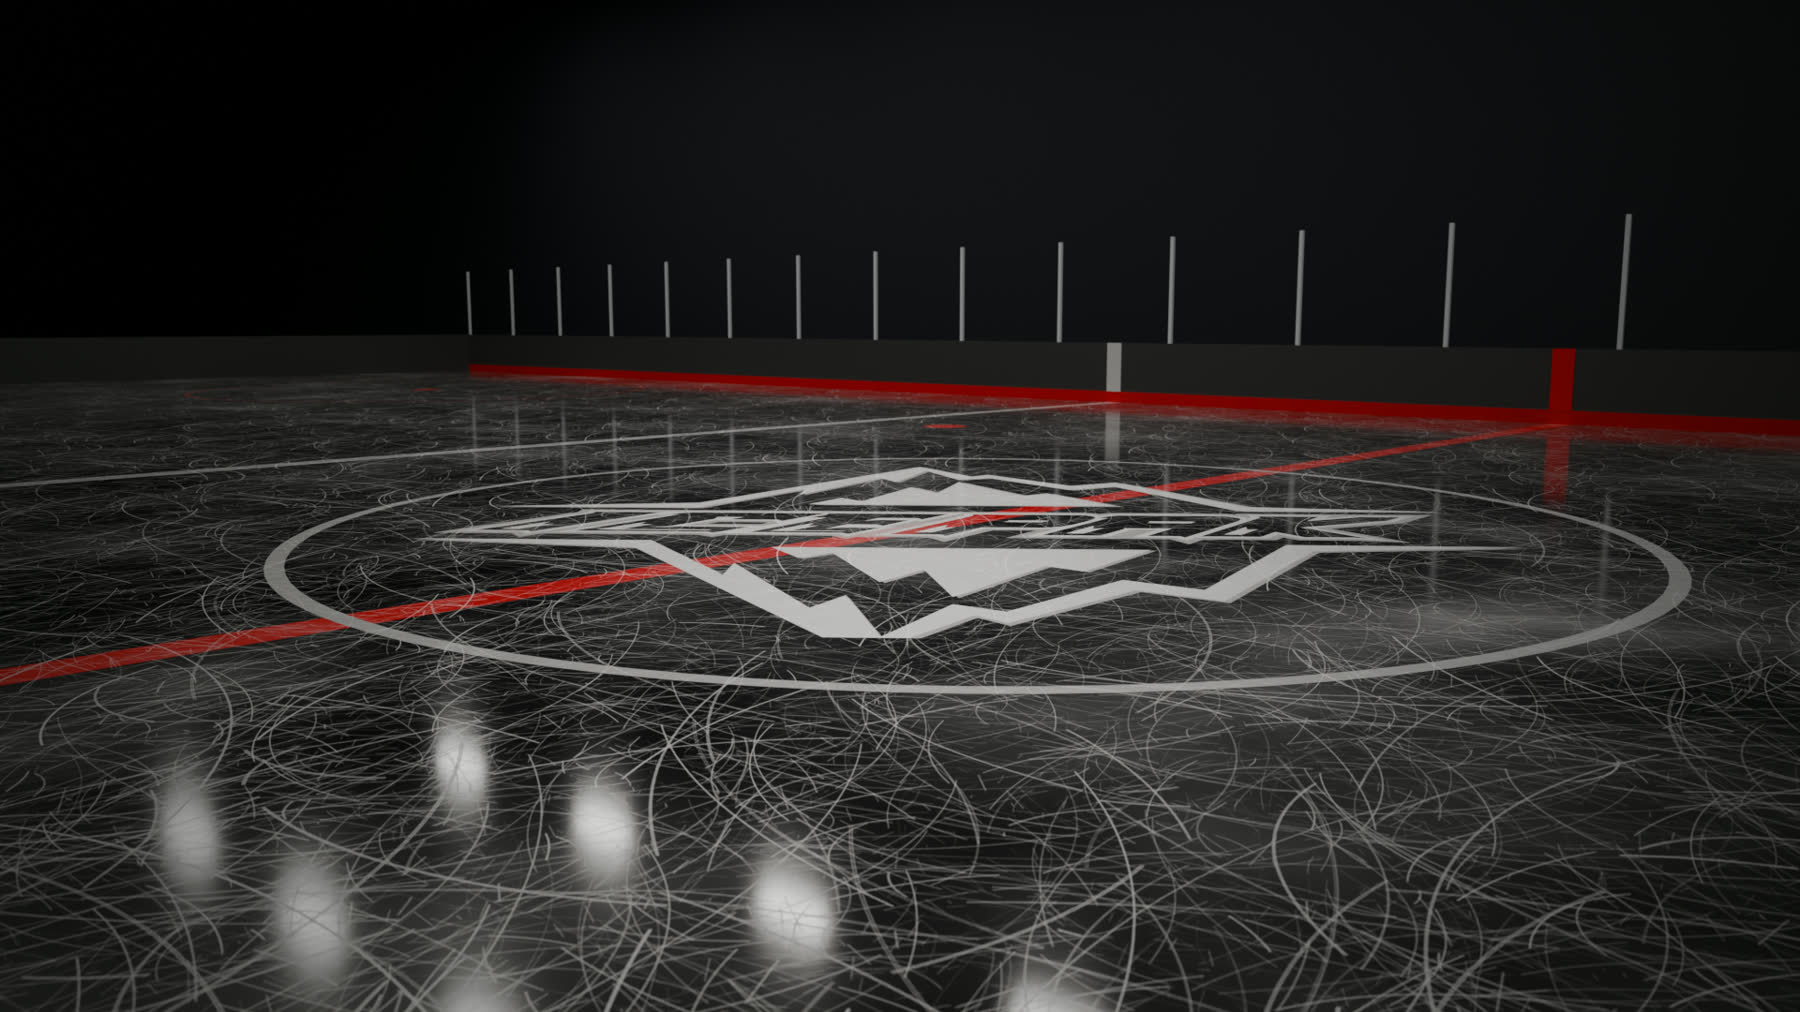
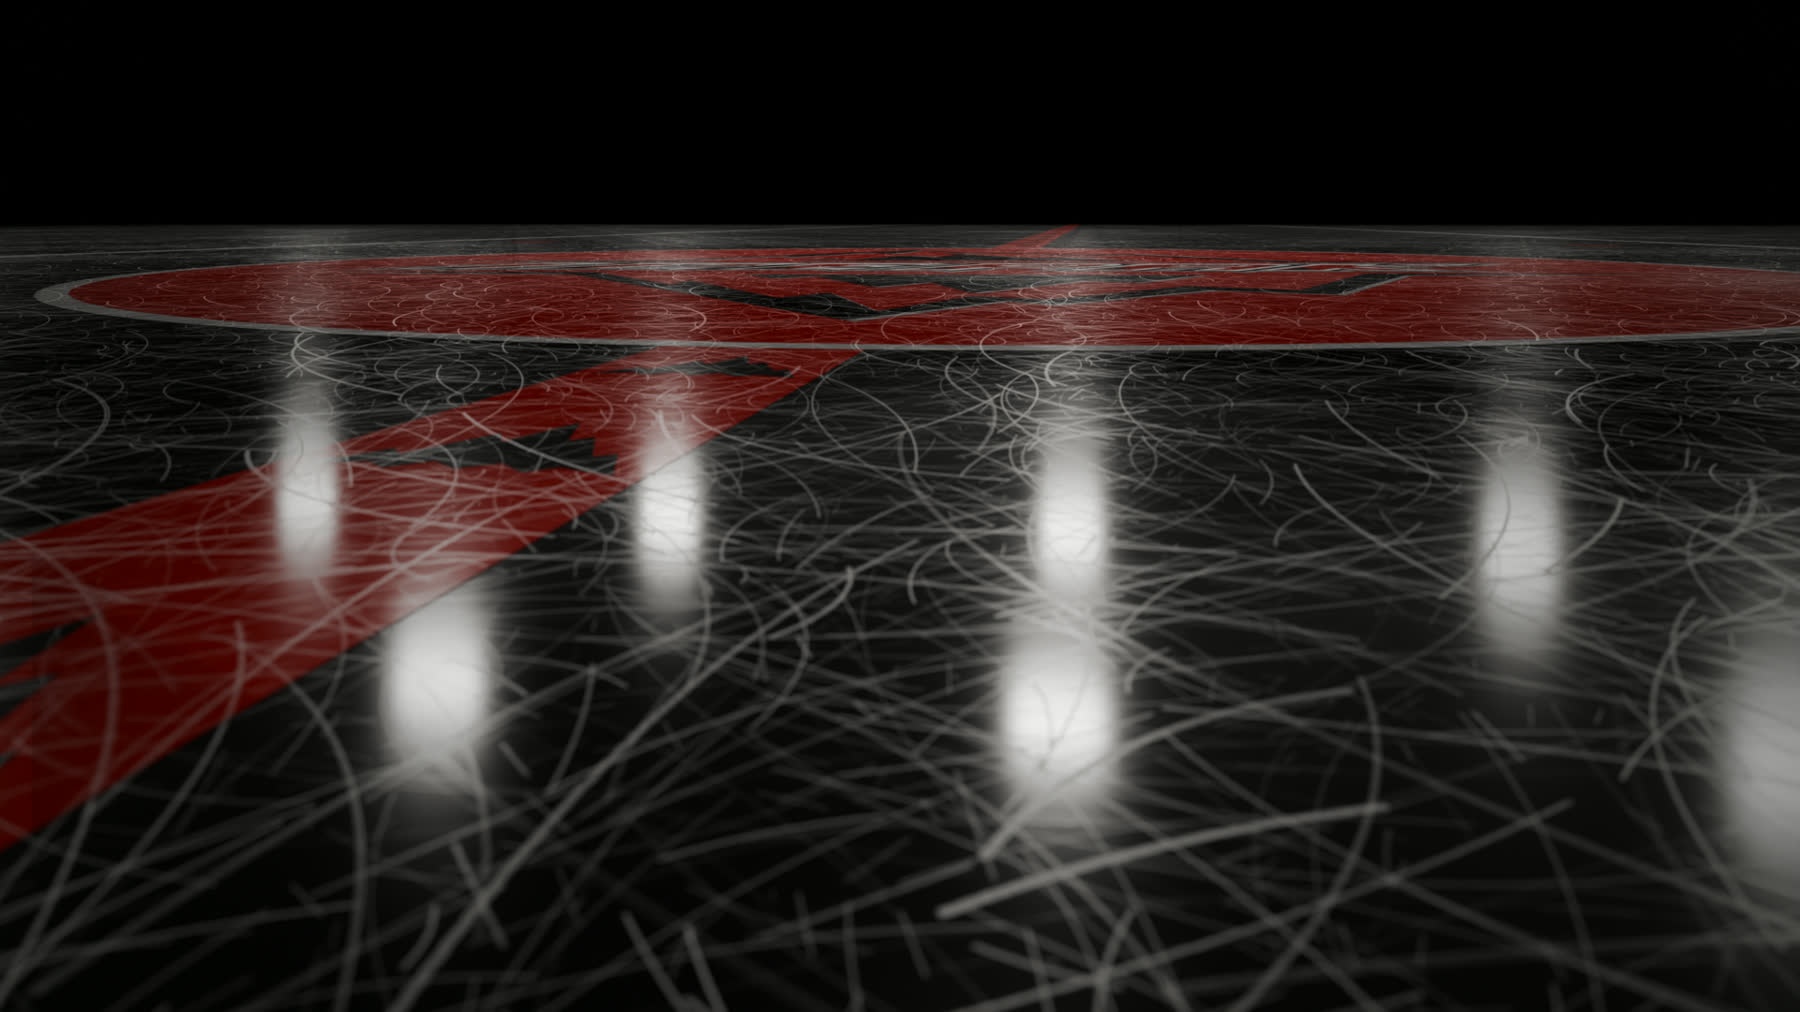
Render the rink from ice level with mountain cutouts on the centre line
The camera is now 30 cm above the ice, and the images show no
boards. The red centre line is wide and has the peaks of the crest
as cutouts. The Third image has the real black crest on a red
centre circle. The background is less strong in the pages.

Claude-Session: https://claude.ai/code/session_01LUkgWkMsUGzKFSRMNAicyx

diff --git a/docs/design/mock.css b/docs/design/mock.css
@@ -21,7 +21,7 @@
   --head: #0a1427;
   --band: linear-gradient(180deg, rgb(23 41 90 / 0.46), rgb(13 25 48 / 0.84));
   /* The veil over the rink photo: light at the top of the window, heavy at the bottom. */
-  --veil: linear-gradient(180deg, rgb(13 25 48 / 0.34), rgb(13 25 48 / 0.8) 75%);
+  --veil: linear-gradient(180deg, rgb(13 25 48 / 0.55), rgb(13 25 48 / 0.88) 75%);
   --shade: rgb(0 0 0 / 0.35);
   --display: "Barlow Condensed", "Arial Narrow", "Helvetica Neue", Arial, sans-serif;
   --body: Inter, system-ui, -apple-system, "Segoe UI", sans-serif;
@@ -43,7 +43,7 @@
   --accent: #2a4a8f;
   --head: #ffffff;
   --band: linear-gradient(180deg, rgb(29 49 95 / 0.66), rgb(23 40 79 / 0.92));
-  --veil: linear-gradient(180deg, rgb(255 255 255 / 0.3), rgb(255 255 255 / 0.8) 75%);
+  --veil: linear-gradient(180deg, rgb(255 255 255 / 0.5), rgb(255 255 255 / 0.88) 75%);
   --shade: rgb(29 49 95 / 0.12);
 }
 
@@ -61,7 +61,7 @@
   --accent: #ffffff;
   --head: #c0211c;
   --band: linear-gradient(180deg, rgb(192 33 28 / 0.72), rgb(150 22 18 / 0.93));
-  --veil: linear-gradient(180deg, rgb(10 10 10 / 0.42), rgb(10 10 10 / 0.86) 75%);
+  --veil: linear-gradient(180deg, rgb(10 10 10 / 0.58), rgb(10 10 10 / 0.9) 75%);
   --shade: rgb(0 0 0 / 0.5);
 }
 
@@ -112,7 +112,7 @@ body::before {
   inset: 0;
   z-index: 0;
   pointer-events: none;
-  background: var(--veil), url(img/bg-home.jpg) center 78% / cover no-repeat;
+  background: var(--veil), url(img/bg-home.jpg) center 60% / cover no-repeat;
 }
 
 :root[data-theme="away"] body::before {

diff --git a/docs/design/rink-background.py b/docs/design/rink-background.py
@@ -7,12 +7,12 @@ variant, out = sys.argv[sys.argv.index("--") + 1], sys.argv[sys.argv.index("--")
 samples = int(sys.argv[sys.argv.index("--") + 3]) if len(sys.argv) > sys.argv.index("--") + 3 else 160
 HERE = os.path.dirname(os.path.abspath(__file__))
 V = {
-  "home":  dict(ice=(0.035, 0.055, 0.10), blue=(0.02, 0.10, 0.50), red=(0.55, 0.02, 0.03), scratch=(0.78, 0.87, 1.0), light=75, tint=(0.72, 0.85, 1.0), world=(0.002, 0.004, 0.010),
-                cam=(-6.2, -7.6, 1.45), aim=(0.9, 0.3, 0.0), lens=27, fstop=2.4, crest="crest-navy.png", white=False, rot=-0.69, kw=0.62),
-  "away":  dict(ice=(0.30, 0.36, 0.45), blue=(0.02, 0.12, 0.60), red=(0.70, 0.03, 0.04), scratch=(1.0, 1.0, 1.0), light=150, tint=(1.0, 1.0, 1.0), world=(0.03, 0.035, 0.05),
-                cam=(0.0, -8.6, 0.95), aim=(0.0, 4.0, 0.1), lens=21, fstop=4.0, crest="crest-navy.png", white=False, rot=0.0, kw=0.62),
-  "third": dict(ice=(0.006, 0.006, 0.007), blue=(0.45, 0.45, 0.45), red=(0.60, 0.015, 0.015), scratch=(0.9, 0.9, 0.9), light=80, tint=(1.0, 0.96, 0.93), world=(0.001, 0.001, 0.001),
-                cam=(6.4, -7.4, 1.45), aim=(-0.9, 0.3, 0.0), lens=27, fstop=2.4, crest="crest-third.png", white=True, rot=0.71, kw=0.62),
+  "home":  dict(ice=(0.035, 0.055, 0.10), blue=(0.02, 0.10, 0.50), red=(0.55, 0.02, 0.03), scratch=(0.78, 0.87, 1.0), light=260, tint=(0.72, 0.85, 1.0), world=(0.002, 0.004, 0.010),
+                cam=(-0.75, -7.3, 0.30), aim=(0.9, 3.0, 0.30), lens=24, fstop=4.0, crest="crest-navy.png", rot=-0.12, kw=0.62, disc=None),
+  "away":  dict(ice=(0.30, 0.36, 0.45), blue=(0.02, 0.12, 0.60), red=(0.70, 0.03, 0.04), scratch=(1.0, 1.0, 1.0), light=420, tint=(1.0, 1.0, 1.0), world=(0.55, 0.6, 0.68),
+                cam=(0.0, -7.4, 0.30), aim=(0.0, 3.0, 0.30), lens=22, fstop=4.0, crest="crest-navy.png", rot=0.0, kw=0.62, disc=None),
+  "third": dict(ice=(0.006, 0.006, 0.007), blue=(0.55, 0.55, 0.55), red=(0.50, 0.012, 0.010), scratch=(0.9, 0.9, 0.9), light=280, tint=(1.0, 0.96, 0.93), world=(0.001, 0.001, 0.001),
+                cam=(0.75, -7.3, 0.30), aim=(-0.9, 3.0, 0.30), lens=24, fstop=4.0, crest="crest-third.png", rot=0.12, kw=0.62, disc=(0.50, 0.012, 0.010)),
 }[variant]
 bpy.ops.wm.read_factory_settings(use_empty=True)
 sc = bpy.context.scene
@@ -53,7 +53,7 @@ def material(name, color=None, image=None, white=False, rough=0.05, kw=0.5):
         tx = nd.new("ShaderNodeTexImage"); tx.image = SCR; lk.new(geo.outputs["Position"], mp.inputs["Vector"]); lk.new(mp.outputs["Vector"], tx.inputs["Vector"])
         return tx.outputs["Color"]
     add = nd.new("ShaderNodeMath"); add.operation = "ADD"; add.use_clamp = True
-    lk.new(layer(1 / 4.2, 0.0), add.inputs[0]); lk.new(layer(1 / 1.9, 1.1), add.inputs[1])
+    lk.new(layer(1 / 2.4, 0.0), add.inputs[0]); lk.new(layer(1 / 0.95, 1.1), add.inputs[1])
     noise = nd.new("ShaderNodeTexNoise"); noise.inputs["Scale"].default_value = 0.35; noise.inputs["Detail"].default_value = 3
     lk.new(geo.outputs["Position"], noise.inputs["Vector"])
     mix = nd.new("ShaderNodeMix"); mix.data_type = "RGBA"; mix.inputs[7].default_value = (*V["scratch"], 1)
@@ -98,51 +98,46 @@ def box(name, x0, y0, z0, x1, y1, z1, mat):
     vs = [(x, y, z) for x in (x0, x1) for y in (y0, y1) for z in (z0, z1)]
     return mesh(name, vs, [(0, 1, 3, 2), (4, 6, 7, 5), (0, 4, 5, 1), (2, 3, 7, 6), (0, 2, 6, 4), (1, 5, 7, 3)], mat)
 
-ICE = material("ice", V["ice"], rough=0.04, kw=V["kw"])
+ICE = material("ice", V["ice"], rough=0.07, kw=V["kw"])
 BLUE = material("blue", V["blue"], rough=0.06, kw=0.55); RED = material("red", V["red"], rough=0.06, kw=0.55)
-rect("ice", -L / 2, -W / 2, L / 2, W / 2, 0, ICE)
-rect("centre", -0.15, -W / 2, 0.15, W / 2, 0.001, RED)
-for x in (-7.62, 7.62): rect("blueline", x - 0.15, -W / 2, x + 0.15, W / 2, 0.001, BLUE)
-for x in (-27.1, 27.1): rect("goal", x - 0.03, -W / 2, x + 0.03, W / 2, 0.001, RED)
+F = 220.0  # the ice has no edge in the frame
+rect("ice", -F, -F, F, F, 0, ICE)
+CL = 0.24  # half of the width of the centre line
+rect("centre", -CL, -F, CL, F, 0.001, RED)
+for x in (-7.62, 7.62): rect("blueline", x - 0.15, -F, x + 0.15, F, 0.001, BLUE)
 ring("circle", 0, 0, 4.57, 0.11, 0.0015, BLUE)
-for x in (-21.0, 21.0):
-    for y in (-6.7, 6.7): ring("fo", x, y, 4.57, 0.05, 0.001, RED); disc("fod", x, y, 0.3, 0.0012, RED)
+if V["disc"]: disc("field", 0, 0, 4.52, 0.0012, material("field", V["disc"], rough=0.06, kw=0.5), n=128)
 for x in (-6.1, 6.1):
     for y in (-6.7, 6.7): disc("nd", x, y, 0.3, 0.0012, RED)
+# mountain cutouts: the peaks of the crest as negative space on the centre line, in the ice colour
+PEAK = [(-0.5, 0.0), (-0.36, 0.34), (-0.29, 0.24), (-0.15, 0.70), (-0.07, 0.52), (0.03, 1.0), (0.14, 0.58), (0.20, 0.68), (0.33, 0.30), (0.39, 0.37), (0.5, 0.0),
+        (0.30, 0.10), (0.22, 0.0), (0.10, 0.14), (0.0, 0.02), (-0.12, 0.14), (-0.22, 0.0), (-0.32, 0.10)]
+pw, ph, step = CL * 2 * 0.84, 0.34, 0.86
+y = -F / 4
+while y < F / 4:
+    if abs(y + ph / 2) > 4.7:  # not inside the centre circle
+        sgn = 1 if y < 0 else -1  # each peak points to centre ice
+        mesh("peak", [(px * pw, y + (py if sgn > 0 else 1 - py) * ph, 0.0016) for px, py in PEAK], [tuple(range(len(PEAK)))[::sgn]], ICE)
+    y += step
 # crest at centre ice, 7.4 m wide, turned to the camera side
-cw = 7.4; ch = cw * (5256 / 5000 if not V["white"] else 1.0)
-CR = material("crest", image=V["crest"], white=V["white"], rough=0.06, kw=0.5)
+cw = 7.4; ch = cw * (5256 / 5000 if variant != "third" else 2524 / 2400)
+CR = material("crest", image=V["crest"], rough=0.06, kw=0.5)
 c = mesh("crest", [(-cw / 2, -ch / 2, 0.002), (cw / 2, -ch / 2, 0.002), (cw / 2, ch / 2, 0.002), (-cw / 2, ch / 2, 0.002)], [(0, 1, 2, 3)], CR, uvs=[(0, 0), (1, 0), (1, 1), (0, 1)])
 c.rotation_euler[2] = V["rot"]
-
-# boards, kick plate, and glass posts
-def plain(name, col, rough=0.5, emit=0.0):
-    m = bpy.data.materials.new(name); m.use_nodes = True; b = m.node_tree.nodes["Principled BSDF"]
-    b.inputs["Base Color"].default_value = (*col, 1); b.inputs["Roughness"].default_value = rough; return m
-BW = plain("boards", (0.75, 0.77, 0.8) if variant != "third" else (0.05, 0.05, 0.05), 0.35); KP = plain("kick", (0.8, 0.55, 0.05) if variant != "third" else (0.5, 0.02, 0.02), 0.4)
-PO = plain("post", (0.5, 0.52, 0.55), 0.3); DK = plain("dark", (0.01, 0.012, 0.02), 0.9)
-for (x0, y0, x1, y1) in [(-L / 2, W / 2, L / 2, W / 2 + 0.12), (-L / 2, -W / 2 - 0.12, L / 2, -W / 2), (-L / 2 - 0.12, -W / 2, -L / 2, W / 2), (L / 2, -W / 2, L / 2 + 0.12, W / 2)]:
-    box("board", x0, y0, 0, x1, y1, 1.07, BW)
-box("kick", -L / 2, W / 2 - 0.01, 0, L / 2, W / 2, 0.2, KP); box("kick", -L / 2, -W / 2, 0, L / 2, -W / 2 + 0.01, 0.2, KP)
-for i in range(int(L / 2.4) + 1):
-    x = -L / 2 + i * 2.4; box("post", x - 0.03, W / 2 + 0.03, 1.07, x + 0.03, W / 2 + 0.09, 2.9, PO)
-box("redmark", -0.15, W / 2 - 0.012, 0.2, 0.15, W / 2, 1.07, plain("rm", V["red"], 0.4))
-for x in (-7.62, 7.62): box("bluemark", x - 0.15, W / 2 - 0.012, 0.2, x + 0.15, W / 2, 1.07, plain("bm", V["blue"], 0.4))
-box("stands", -L, W / 2 + 3, 0, L, W / 2 + 3.2, 14, DK); box("stands2", -L, -W / 2 - 3.2, 0, L, -W / 2 - 3, 14, DK)
 
 # lights: rows of bright panels over the ice
 em = bpy.data.materials.new("lamp"); em.use_nodes = True; nt = em.node_tree; nt.nodes.clear()
 e = nt.nodes.new("ShaderNodeEmission"); e.inputs["Color"].default_value = (*V["tint"], 1); e.inputs["Strength"].default_value = V["light"]
 o = nt.nodes.new("ShaderNodeOutputMaterial"); nt.links.new(e.outputs[0], o.inputs[0])
-for ix in range(-4, 5):
-    for iy in (-1.5, -0.5, 0.5, 1.5):
-        x, y = ix * 7.0, iy * 7.2
+for ix in range(-2, 3):
+    for iy in (0.4, 2.2, 4.0):
+        x, y = ix * 15.0, iy * 9.0
         mesh("lamp", [(x - 0.9, y - 0.25, 11), (x + 0.9, y - 0.25, 11), (x + 0.9, y + 0.25, 11), (x - 0.9, y + 0.25, 11)], [(3, 2, 1, 0)], em)
 w = bpy.data.worlds.new("w"); w.use_nodes = True; w.node_tree.nodes["Background"].inputs[0].default_value = (*V["world"], 1); sc.world = w
 
 cam = bpy.data.cameras.new("cam"); co = bpy.data.objects.new("cam", cam); sc.collection.objects.link(co); sc.camera = co
 co.location = V["cam"]; d = Vector(V["aim"]) - Vector(V["cam"]); co.rotation_euler = d.to_track_quat("-Z", "Y").to_euler()
-cam.lens = V["lens"]; cam.dof.use_dof = True; cam.dof.focus_distance = (Vector((0, 0, 0)) - Vector(V["cam"])).length * 0.8; cam.dof.aperture_fstop = V["fstop"]; cam.clip_end = 300
+cam.lens = V["lens"]; cam.dof.use_dof = True; cam.dof.focus_distance = (Vector((0, 0, 0)) - Vector(V["cam"])).length * 0.9; cam.dof.aperture_fstop = V["fstop"]; cam.clip_end = 400; cam.shift_y = -0.16
 
 sc.render.engine = "CYCLES"; sc.cycles.samples = samples; sc.cycles.use_denoising = True
 try:

diff --git a/docs/design/visual-direction.md b/docs/design/visual-direction.md
@@ -55,7 +55,7 @@ Troy asked for these changes:
 - **Video links and images:** the `nightowls_11082026` and `bluedevils_10252026` game folders on the NAS.
 - **Roster:** `backups/seed-player-bank.sql`, which comes from the Fee Sheet.
 - **Shop products:** the product names in the orders of the Old Site, and two product photos from the NAS.
-- **Rink images:** `rink-background.py` in this folder makes them with Blender 5.2. The crest in the Home and Away images is `icepak_logo2.png` from the NAS. The crest in the Third image is `img/crest-third.svg` in white. The script needs these two crest files beside it.
+- **Rink images:** `rink-background.py` in this folder makes them with Blender 5.2. The crest in the Home and Away images is `icepak_logo2.png` from the NAS. The crest in the Third image is `img/crest-third.svg`. The script needs these two crest files beside it.
 - **Opponent logos:** `Ext. Images/Ice Pak/Logos/` on the NAS, at 112 px. Buzz Light Beer, Dragon Juice, and the 20 Games with an unknown opponent have no logo.
 - **Home and away:** `game_teams` in the HHG database has the side of Ice Pak for 6 Games. The Old Site has no home or away data.
 - The mockups have no emails, no phone numbers, and no Balances.
@@ -122,7 +122,7 @@ Contrast numbers are WCAG contrast ratios. Text needs 4.5. A mark that carries m
 |---|---|---|---|---|
 | `--band` | navy gradient, 46% to 84% | navy gradient, 66% to 92% | red gradient, 72% to 93% | **Change.** `site.css` has a transparent band in Home and Away. A band in each Theme gives each page a clear top. In Away, the band is the navy of the jersey trim, with white text. |
 | `--head` | `#0a1427` | `#ffffff` | `#c0211c` | **Add.** The header background. In Third the header and the band are one red block, as in `site.css` now. |
-| `--veil` | navy, 34% to 80% | white, 30% to 80% | black, 42% to 86% | **Add.** The gradient over the rink photo. |
+| `--veil` | navy, 55% to 88% | white, 50% to 88% | black, 58% to 90% | **Add.** The gradient over the rink photo. |
 | `--shade` | black 35% | navy 12% | black 50% | **Add.** The shadow colour of a card. |
 | `--display`, `--body` | | | | **Add.** The two font lists. |
 | `--opp`, `--opp-2` | | | | **Add.** The two colours of an opponent. Default `var(--frost)` and `var(--rule)`. |
@@ -141,12 +141,14 @@ Rules that go with the tokens:
 
 ### Rink background
 
-- `body::before` shows one rink image, fixed behind the page: `img/bg-home.jpg` (178 kB), `img/bg-away.jpg` (97 kB), and `img/bg-third.jpg` (196 kB). Each one is 1800 px wide.
-- **Home:** dark blue ice, the navy crest, and a low camera at an angle.
-- **Away:** light ice, the navy crest, and a camera on the red line.
-- **Third:** black ice, a white crest, white lines in place of blue lines, and a red centre line.
-- **Each image:** skate marks, the centre circle, the lines, the boards, and the reflections of the arena lights.
-- **Veil:** a gradient of the ground colour is over the image. It is light at the top of the window and heavy at the bottom. The band has a kit-colour gradient that lets the image show.
+- `body::before` shows one rink image, fixed behind the page: `img/bg-home.jpg` (110 kB), `img/bg-away.jpg` (82 kB), and `img/bg-third.jpg` (121 kB). Each one is 1800 px wide.
+- **Camera:** 30 cm above the ice, on the centre line. The images show no boards and no arena.
+- **Centre line:** the red line is wide, and it has the peaks of the crest as cutouts in the ice colour.
+- **Home:** dark blue ice and the navy crest.
+- **Away:** light ice and the navy crest.
+- **Third:** black ice and a red centre circle with the real black crest on it. The real crest needs red behind it.
+- **Each image:** skate marks and the reflections of the arena lights.
+- **Veil:** a gradient of the ground colour is over the image: 50% to 58% at the top of the window and 88% to 90% at the bottom.
 - **Text:** most text is on a card with a solid fill. The section titles and a few lines of small text are on the veil.
 
 ### Page frame
@@ -297,7 +299,7 @@ I did this review myself, as a UX designer would. The first four items are in th
 14. **Recap images.** A Recap thumbnail has the red kit graphics of HHG. It looks the same in the Home and Away Themes. Is that acceptable?
 15. **Opponents with no logo.** Buzz Light Beer and Dragon Juice have no logo file. Do you have these logos?
 16. **Photos.** A Player has initials in place of a photo. Do you want Player photos later?
-17b. **Rink images.** The renders have no arena seats, no glass, and no snow on the ice. Do you want more detail, a different camera angle, or more than one image for each Theme?
+17b. **Rink images.** At 30 cm above the ice, the crest at centre ice is a thin shape and is not readable. Is that acceptable, or do you want the camera higher or the crest nearer?
 17a. **Jersey design.** I did not find the jersey mockups on the NAS. Which file or folder has them? The drawing needs the real stripes and the real number colours of each Kit.
 
 ### Privacy
